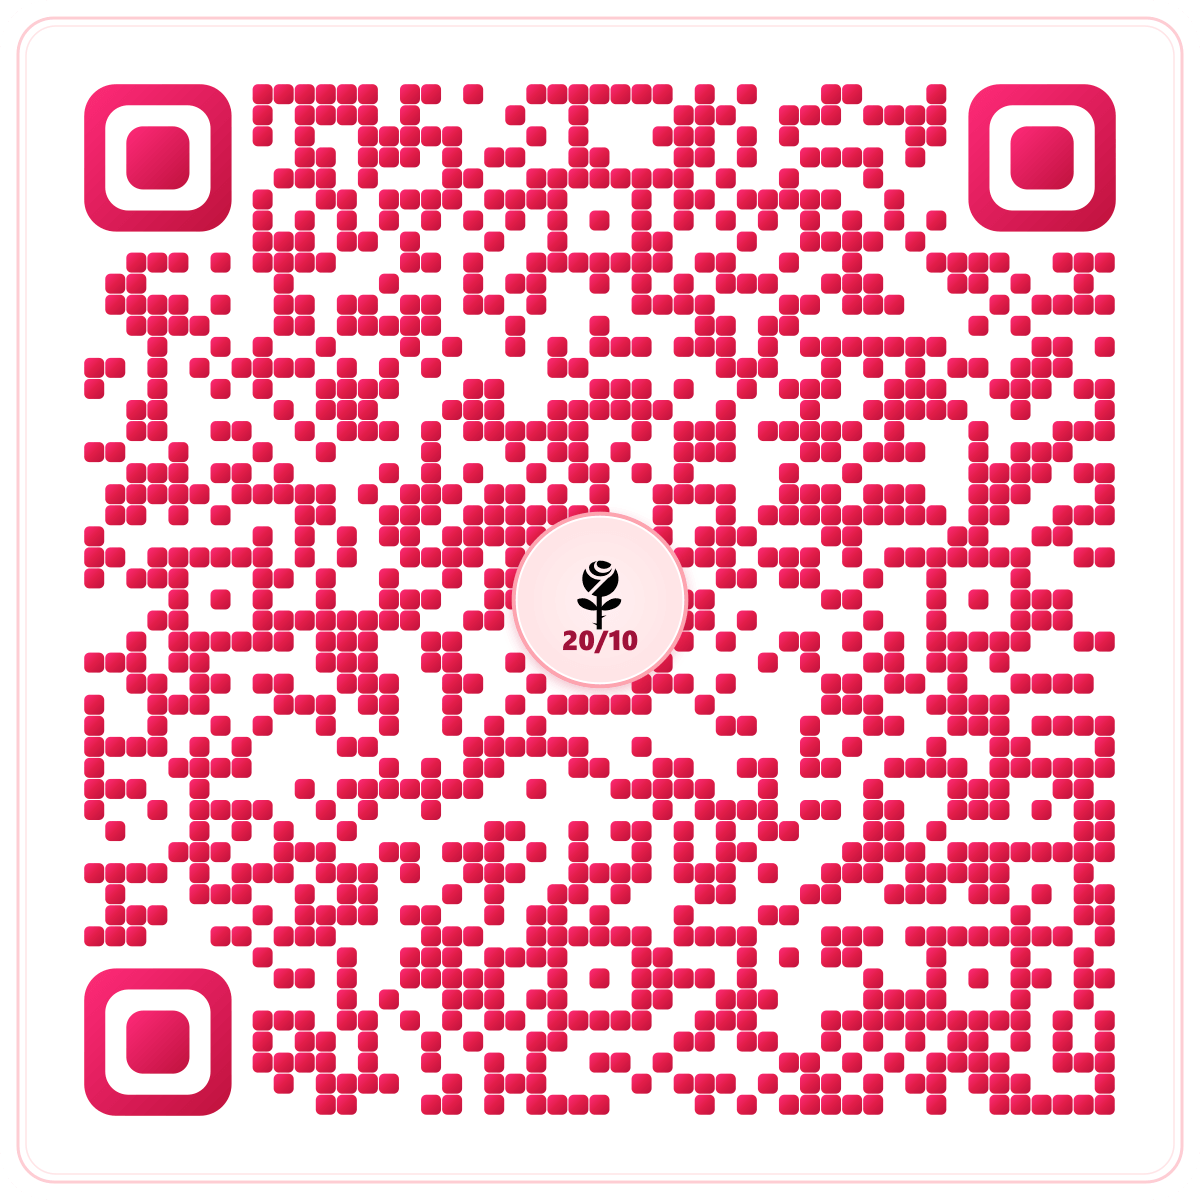
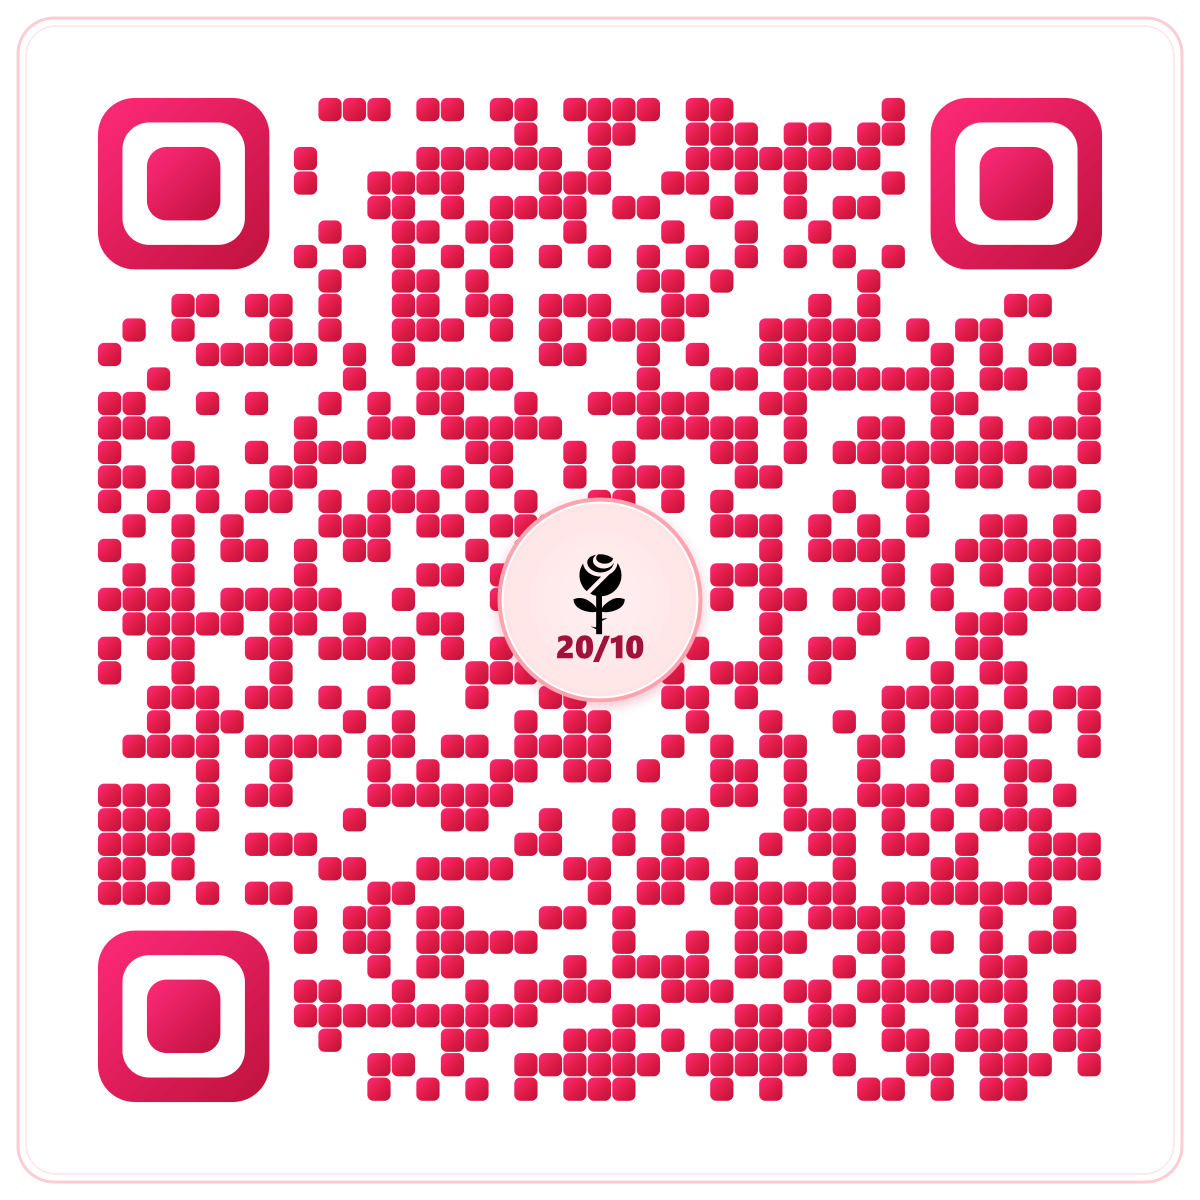
Cap nhat link 24/7 vinh vien voi GitHub Pages, dam bao quet ma hoat dong ca khi tat may

diff --git a/app.js b/app.js
@@ -393,11 +393,14 @@ function renderQRCodeSVG(text, options = {}) {
   </svg>`;
 }
 
-/* Dynamic Server Info and Live Tunnel Detection */
+/* Dynamic Server Info and Live Cloud 24/7 Deployment */
+const CLOUD_PERMANENT_ORIGIN = 'https://manh1234-ne.github.io/thiep-2010';
+
 let serverInfo = {
   localUrl: window.location.origin,
   lanUrl: window.location.origin,
-  tunnelUrl: null
+  tunnelUrl: null,
+  cloudUrl: CLOUD_PERMANENT_ORIGIN
 };
 
 function updateMobileConnectUI() {
@@ -405,7 +408,8 @@ function updateMobileConnectUI() {
   const mobileModalUrlText = document.getElementById('mobile-modal-url-text');
   const mobileEntryQR = document.getElementById('mobile-entry-qr');
   
-  const targetUrl = serverInfo.tunnelUrl || serverInfo.lanUrl || window.location.origin;
+  // Prefer permanent 24/7 cloud URL so phones can access anytime even when PC is off
+  const targetUrl = CLOUD_PERMANENT_ORIGIN || serverInfo.tunnelUrl || serverInfo.lanUrl || window.location.origin;
 
   if (mobileUrlDisplay) {
     mobileUrlDisplay.textContent = targetUrl;
@@ -443,9 +447,8 @@ setInterval(fetchServerInfo, 8000);
 function getActiveQRText() {
   if (selectedMode === 'web') {
     if (generatedWebUrl) return generatedWebUrl;
-    // Default preview URL: prefer live public tunnel, then LAN IP, then window origin
-    const origin = serverInfo.tunnelUrl || serverInfo.lanUrl || window.location.origin;
-    return `${origin}/card.html`;
+    // Default preview URL points to permanent 24/7 cloud web card
+    return `${CLOUD_PERMANENT_ORIGIN}/card.html`;
   }
   const wishInput = document.getElementById('qr-wish-text');
   return (wishInput ? wishInput.value.trim() : '') || 'Chúc mừng ngày Phụ nữ Việt Nam 20/10!';
@@ -970,67 +973,39 @@ document.addEventListener('DOMContentLoaded', () => {
     // Save to localStorage for instant local preview
     localStorage.setItem('preview_card_2010', JSON.stringify(cardPayload));
 
-    let finalCardUrl = '';
-    let localCardUrl = '';
-    let onlineCardUrl = '';
+    // Generate permanent 24/7 cloud URL (guaranteed to work forever even when PC is shut down!)
+    const lightPayload = { ...cardPayload, photos: ['assets/sample_portrait.jpg'] };
+    const hashStr = btoa(unescape(encodeURIComponent(JSON.stringify(lightPayload))));
+    const permanentCloudUrl = `${CLOUD_PERMANENT_ORIGIN}/card.html#data=${hashStr}`;
 
+    // Also attempt saving to local server for archiving if server is running
     try {
-      const res = await fetch('/api/save-card', {
+      await fetch('/api/save-card', {
         method: 'POST',
         headers: { 'Content-Type': 'application/json' },
         body: JSON.stringify(cardPayload)
       });
+    } catch (e) {}
 
-      if (res.ok) {
-        const data = await res.json();
-        const cardId = data.id;
-
-        // URL to open on this computer (GUARANTEED to work immediately!)
-        localCardUrl = `${window.location.origin}/card.html?id=${cardId}`;
-
-        // URL for mobile phones and remote scan (Cloudflare tunnel or LAN Wi-Fi)
-        const bestOrigin = data.tunnelUrl || serverInfo.tunnelUrl || data.lanUrl || serverInfo.lanUrl || window.location.origin;
-        onlineCardUrl = `${bestOrigin}/card.html?id=${cardId}`;
-
-        finalCardUrl = onlineCardUrl;
-      } else {
-        throw new Error('API save failed');
-      }
-    } catch (err) {
-      console.warn('API error, falling back to local hash mode:', err);
-      // Hash fallback (Base64 JSON without large photos)
-      const lightPayload = { ...cardPayload, photos: ['assets/sample_portrait.jpg'] };
-      const hashStr = btoa(unescape(encodeURIComponent(JSON.stringify(lightPayload))));
-      localCardUrl = `${window.location.origin}/card.html#data=${hashStr}`;
-      const bestOrigin = serverInfo.tunnelUrl || serverInfo.lanUrl || window.location.origin;
-      finalCardUrl = `${bestOrigin}/card.html#data=${hashStr}`;
-      onlineCardUrl = finalCardUrl;
-    }
-
+    // QR code always encodes the permanent 24/7 cloud URL
+    finalCardUrl = permanentCloudUrl;
     generatedWebUrl = finalCardUrl;
 
     // Show generated link box
     if (webLinkBox && generatedWebUrlInput) {
       webLinkBox.style.display = 'block';
-      // The input displays the shareable online link for copying
-      generatedWebUrlInput.value = onlineCardUrl || localCardUrl;
-      // "Mở Web" button opens localCardUrl (so it opens instantly on this machine without fail!)
+      generatedWebUrlInput.value = permanentCloudUrl;
       if (btnOpenWebUrl) {
-        btnOpenWebUrl.href = localCardUrl;
+        btnOpenWebUrl.href = permanentCloudUrl;
       }
     }
 
     const tunnelBadge = document.getElementById('tunnel-badge');
     if (tunnelBadge) {
-      if (serverInfo.tunnelUrl) {
-        tunnelBadge.textContent = '🌐 Link Online (Cloudflare)';
-        tunnelBadge.style.background = '#ecfdf5';
-        tunnelBadge.style.color = '#059669';
-      } else {
-        tunnelBadge.textContent = '🏠 Link Mạng Nội Bộ (Wi-Fi)';
-        tunnelBadge.style.background = '#eff6ff';
-        tunnelBadge.style.color = '#1d4ed8';
-      }
+      tunnelBadge.textContent = '🟢 Vĩnh Viễn 24/7 (Quét được kể cả khi tắt máy)';
+      tunnelBadge.style.background = '#ecfdf5';
+      tunnelBadge.style.color = '#059669';
+      tunnelBadge.style.border = '1px solid #10b981';
     }
 
     updateQRPreview();

diff --git a/generate_live_online_card.js b/generate_live_online_card.js
@@ -3,7 +3,7 @@ const sharp = require('sharp');
 const jsQR = require('jsqr');
 const fs = require('fs');
 
-const PUBLIC_URL = 'https://injection-determination-kansas-survive.trycloudflare.com/card.html';
+const PUBLIC_URL = 'https://manh1234-ne.github.io/thiep-2010/card.html';
 
 function isFinderPattern(r, c, size) {
   if (r <= 7 && c <= 7) return true;

diff --git a/server.js b/server.js
@@ -113,7 +113,8 @@ const server = http.createServer((req, res) => {
       lanIp: LAN_IP,
       localUrl: `http://localhost:${PORT}`,
       lanUrl: `http://${LAN_IP}:${PORT}`,
-      tunnelUrl: currentTunnelUrl
+      tunnelUrl: currentTunnelUrl,
+      cloudUrl: 'https://manh1234-ne.github.io/thiep-2010'
     }));
     return;
   }
